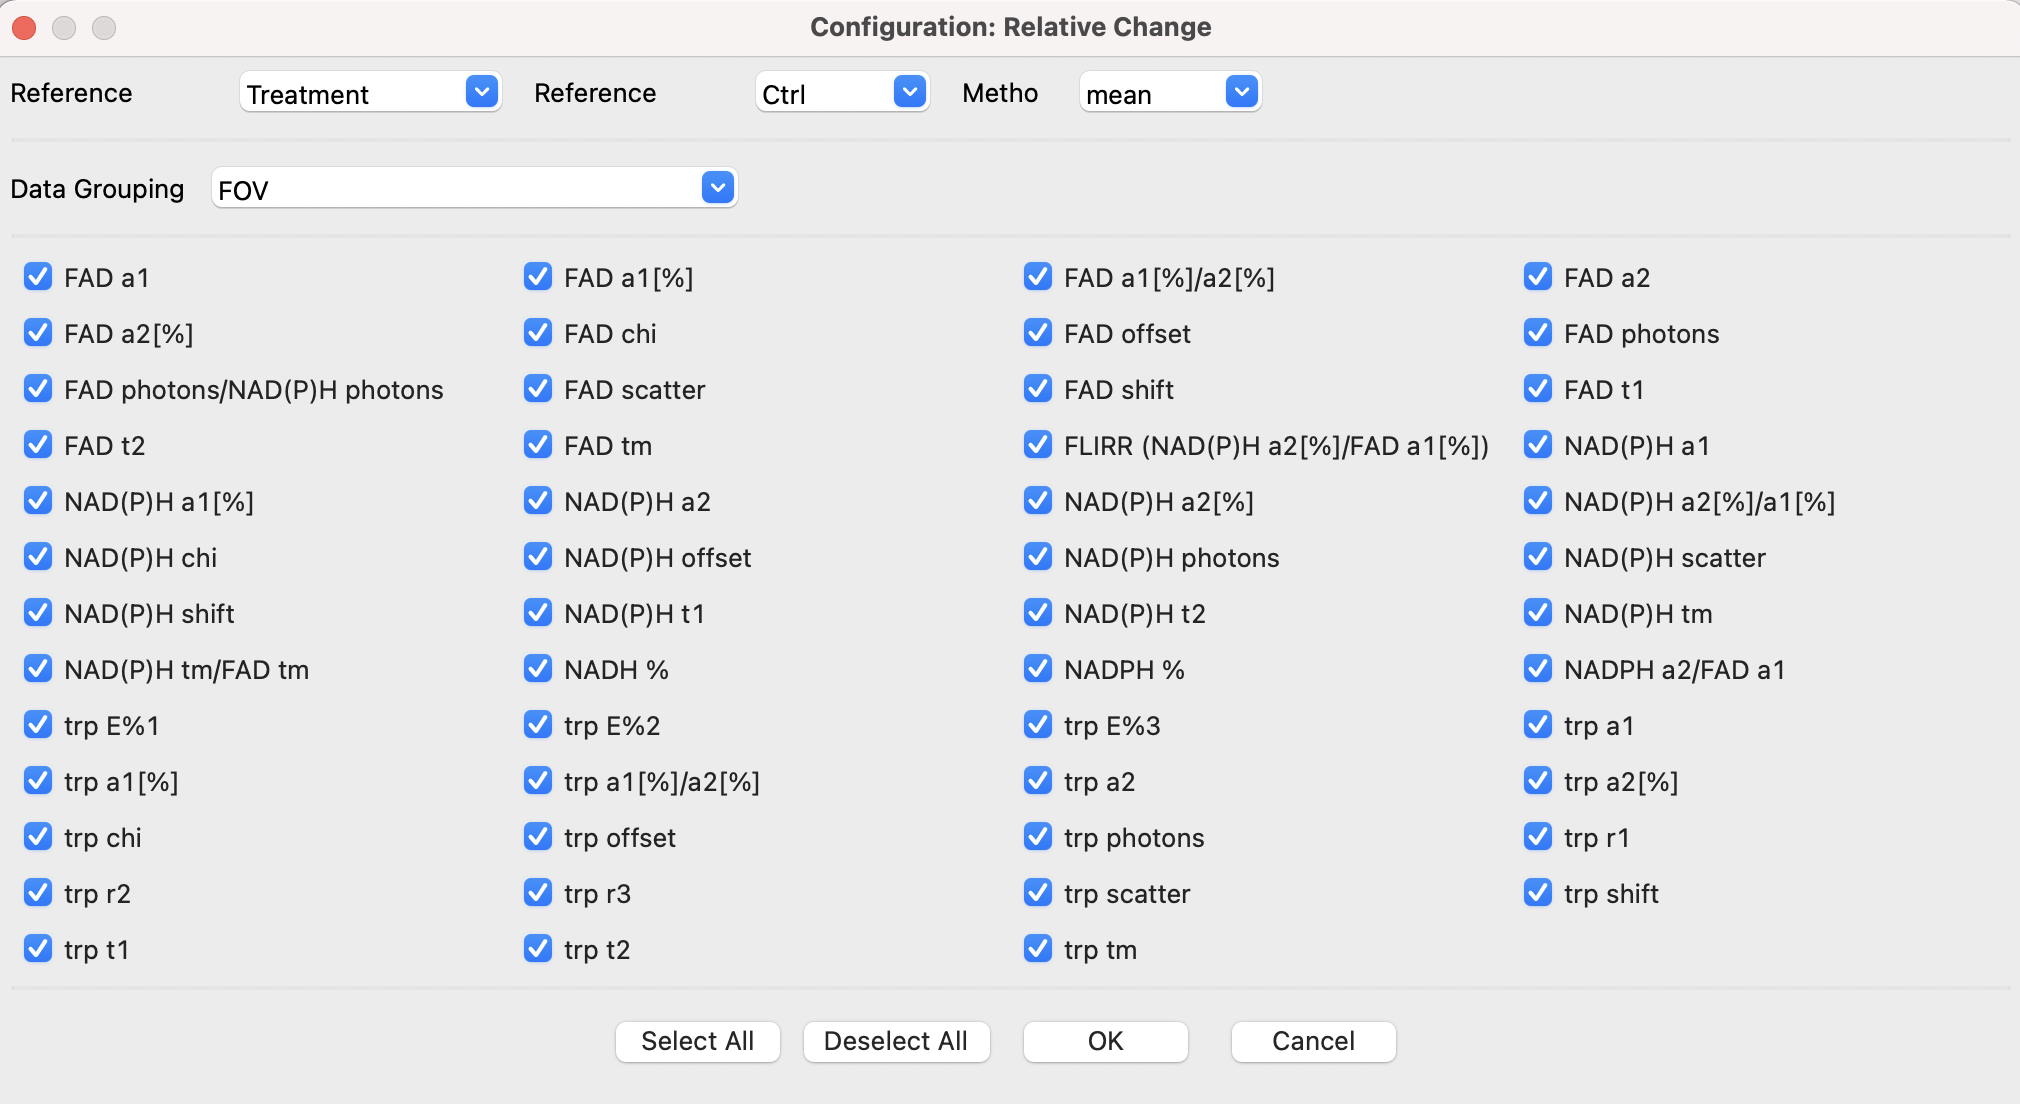
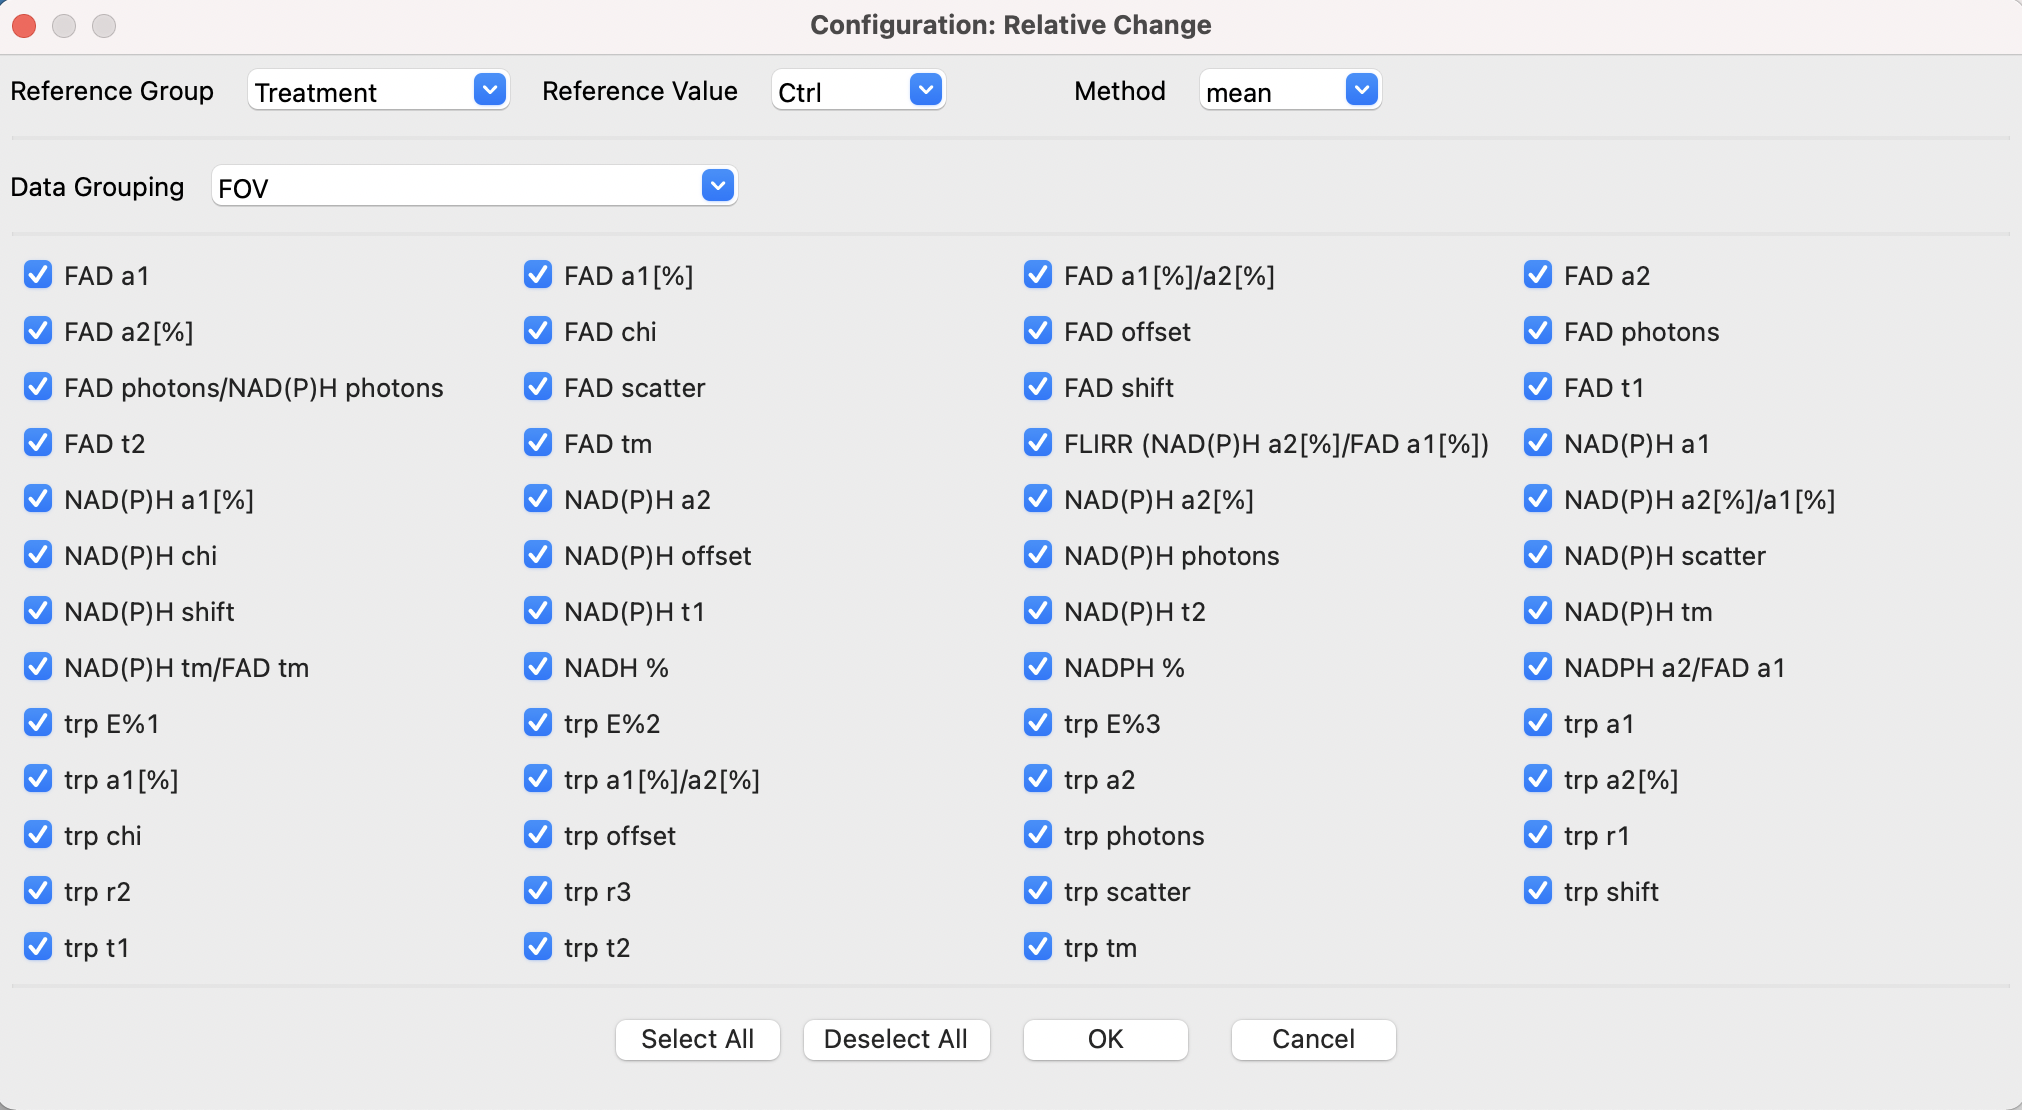
improved barplots, expanded docs

diff --git a/flim/analysis/barplots.py b/flim/analysis/barplots.py
@@ -15,6 +15,61 @@ from flim.gui.dialogs import BasicAnalysisConfigDlg
 import wx
 from importlib_resources import files
 import flim.resources
+import numpy as np
+
+class BarPlotConfigDlg(BasicAnalysisConfigDlg):
+
+    def __init__(self, parent, title, data, selectedgrouping=['None'], selectedfeatures='All', orientation='vertical', ordering=[], ebar='+/-', etype='std'):
+        self.orientation = orientation
+        self.ordering = ordering
+        self.ebar = ebar
+        self.etype = etype
+        BasicAnalysisConfigDlg.__init__(self, parent, title, data, selectedgrouping=selectedgrouping, selectedfeatures=selectedfeatures, optgridrows=1, optgridcols=0)
+		    
+    def get_option_panels(self):
+        osizer = wx.BoxSizer(wx.HORIZONTAL)
+        orientation_opts = ['vertical', 'horizontal']
+        sel_orientation = self.orientation
+        if sel_orientation not in orientation_opts:
+            sel_orientation = orientation_opts[0]
+        self.orientation_combobox = wx.ComboBox(self, wx.ID_ANY, style=wx.CB_READONLY, value=sel_orientation, choices=orientation_opts)
+        osizer.Add(wx.StaticText(self, label="Orientation "), 0, wx.ALL|wx.ALIGN_CENTER_VERTICAL, 5)
+        osizer.Add(self.orientation_combobox, 0, wx.ALL|wx.EXPAND|wx.ALIGN_CENTER_VERTICAL, 5)
+
+        bsizer = wx.BoxSizer(wx.HORIZONTAL)
+        ebar_opts = ['+/-', '+', 'None']
+        sel_ebar = self.ebar
+        if sel_ebar not in ebar_opts:
+            sel_ebar = ebar_opts[0]
+        self.ebar_combobox = wx.ComboBox(self, wx.ID_ANY, style=wx.CB_READONLY, value=sel_ebar, choices=ebar_opts)
+        self.ebar_combobox.Bind(wx.EVT_COMBOBOX, self.OnErroBarChange)
+        bsizer.Add(wx.StaticText(self, label="Error Bar"), 0, wx.ALL|wx.ALIGN_CENTER_VERTICAL, 5)
+        bsizer.Add(self.ebar_combobox, 0, wx.ALL|wx.EXPAND|wx.ALIGN_CENTER_VERTICAL, 5)
+
+        tsizer = wx.BoxSizer(wx.HORIZONTAL)
+        etype_opts = ['std', 's.e.m.']
+        sel_etype = self.etype
+        if sel_etype not in sel_etype:
+            sel_etype = sel_etype[0]
+        self.etype_combobox = wx.ComboBox(self, wx.ID_ANY, style=wx.CB_READONLY, value=sel_etype, choices=etype_opts)
+        self.etype_combobox.Enable(sel_ebar != 'None')
+        tsizer.Add(wx.StaticText(self, label="Error Type"), 0, wx.ALL|wx.ALIGN_CENTER_VERTICAL, 5)
+        tsizer.Add(self.etype_combobox, 0, wx.ALL|wx.EXPAND|wx.ALIGN_CENTER_VERTICAL, 5)
+        
+        return [osizer, bsizer, tsizer]
+        
+    def _get_selected(self):
+        params = super()._get_selected()
+        params['ordering'] = []
+        params['orientation'] = self.orientation_combobox.GetValue()
+        params['error bar'] = self.ebar_combobox.GetValue()
+        params['error type'] = self.etype_combobox.GetValue()
+        return params
+        
+    def OnErroBarChange(self, event):
+        ebar = self.ebar_combobox.GetValue()
+        self.etype_combobox.Enable(ebar != 'None')
+
 
 class BarPlot(AbstractAnalyzer):
     
@@ -52,7 +107,17 @@ class BarPlot(AbstractAnalyzer):
     def run_configuration_dialog(self, parent):
         selgrouping = self.params['grouping']
         selfeatures = self.params['features']
-        dlg = BasicAnalysisConfigDlg(parent, f'Configuration: {self.name}', self.data, selectedgrouping=selgrouping, selectedfeatures=selfeatures)
+        ordering = self.params['ordering']
+        orientation = self.params['orientation']
+        etype = self.params['error type']
+        ebar = self.params['error bar']
+        dlg = BarPlotConfigDlg(parent, f'Configuration: {self.name}', self.data, 
+        	selectedgrouping=selgrouping, 
+        	selectedfeatures=selfeatures, 
+        	ordering=ordering, 
+        	orientation=orientation,
+        	ebar=ebar,
+        	etype=etype)
         if dlg.ShowModal() == wx.ID_OK:
             results = dlg.get_selected()
             self.params.update(results)
@@ -72,18 +137,26 @@ class BarPlot(AbstractAnalyzer):
         #plt.rcParams.update({'figure.autolayout': True})
         if data is None or not feature in data.columns.values:
             return None, None
-        
         fig, ax = plt.subplots(constrained_layout=True)
+        capsize = 6
         if categories is None:
             categories = []
         if len(categories)==0:
             mean = pd.DataFrame(data={'all':[data[feature].mean()]}, index=[feature])#.to_frame()
-            std = pd.DataFrame(data={'all':[data[feature].std()]}, index=[feature])#.to_frame()
+            if self.params['error bar'] != 'None':
+                if self.params['error type'] == 'std':
+                    error = pd.DataFrame(data={'all':[data[feature].std()]}, index=[feature])#.to_frame()
+                else:
+                    error = pd.DataFrame(data={'all':[data[feature].sem()]}, index=[feature])#.to_frame()            
+            else:
+                error = None
+            if self.params['error bar'] == '+':
+                error = [[[0.0] * len(error), error.to_numpy().flatten()]]
             ticklabels = ''#mean.index.values
             if self.params['orientation'] == 'horizontal':
-                mean.plot.barh(ax=ax, xerr=std, capsize=6)#,figsize=fsize,width=0.8)
+                mean.plot.barh(ax=ax, xerr=error, capsize=capsize)#,figsize=fsize,width=0.8)
             else:
-                mean.plot.bar(ax=ax, yerr=std, capsize=6)#,figsize=fsize,width=0.8)            
+                mean.plot.bar(ax=ax, yerr=error, capsize=capsize)#,figsize=fsize,width=0.8)            
         else:    
             cols = [c for c in categories]
             cols.append(feature)
@@ -95,35 +168,49 @@ class BarPlot(AbstractAnalyzer):
     #        print data.reset_index().set_index(groups).index.unique()
             #df.columns = [' '.join(col).strip() for col in df.columns.values]
             mean = groupeddata.mean()
-            if self.params['error type'] == 'std':
-                error = groupeddata.std()
+            if self.params['error bar'] != 'None':
+                if self.params['error type'] == 'std':
+                    error = groupeddata.std()
+                else:
+                    error = groupeddata.sem()
             else:
-                error = groupeddata.sem()
+                error = None
             no_bars = len(mean)
             if pivot_level < len(categories):
                 unstack_level = list(range(pivot_level))
                 logging.debug (f"PIVOTING: {pivot_level}, {unstack_level}")
                 mean = mean.unstack(unstack_level)
-                error = error.unstack(unstack_level)
                 mean = mean.dropna(how='all', axis=0)
-                error = error.dropna(how='all', axis=0)
+                if error is not None:
+                    error = error.unstack(unstack_level)
+                    error = error.dropna(how='all', axis=0)
+            if self.params['error bar'] == '+':
+                error = error.transpose()
+                dim = error.shape
+                print (error)
+                zeros = np.zeros_like(error)
+                print (error.shape, zeros.shape)
+                C = np.empty((error.shape[0]+zeros.shape[0], error.shape[1]))
+                C[::2,:] = zeros
+                C[1::2,:] = error
+                error = C
+                error = error.reshape([dim[0],2,dim[1]])              
+                print (error)
+                print (error.shape)
             ticklabels = mean.index.values
             bwidth = 0.8# * len(ticklabels)/no_bars 
             fig.set_figheight(1 + no_bars//8)
             fig.set_figwidth(6)
             if self.params['orientation'] == 'horizontal':
-                mean.plot.barh(ax=ax, xerr=error, width=bwidth, capsize=0.75*bwidth)           
+                mean.plot.barh(ax=ax, xerr=error, width=bwidth, capsize=capsize)           
             else:
-                mean.plot.bar(ax=ax, yerr=error, width=bwidth, capsize=6)           
-        
+                mean.plot.bar(ax=ax, yerr=error, width=bwidth, capsize=capsize)           
         
         if len(categories) > 1:
-            # ticklabels is an array of tuples --> convert individual tuples into string 
-    #        ticklabels = [', '.join(l) for l in ticklabels]
             ticklabels = [str(l).replace('\'','').replace('(','').replace(')','') for l in ticklabels]
             h, labels = ax.get_legend_handles_labels()
-            #labels = [l.encode('ascii','ignore').split(',')[1].strip(' \)') for l in labels]
             labels = [l.replace('\'','').replace('(','').replace(')','') for l in labels]
+            labels = [', '.join(label.split(',')[1:]) for label in labels]
 
             if self.params['orientation'] == 'horizontal':
                 ax.set_ylabel(', '.join(categories[pivot_level:]))

diff --git a/flim/analysis/relativechange.py b/flim/analysis/relativechange.py
@@ -33,29 +33,30 @@ class RelativeChangeConfigDlg(BasicAnalysisConfigDlg):
         self.sel_refvalue = refvalue
         if self.sel_refvalue not in self.refval_options:
             self.sel_refvalue = self.refval_options[0]
-        BasicAnalysisConfigDlg.__init__(self, parent, title, data, selectedgrouping=selectedgrouping, selectedfeatures=selectedfeatures, optgridrows=1, optgridcols=1)
+        BasicAnalysisConfigDlg.__init__(self, parent, title, data, selectedgrouping=selectedgrouping, selectedfeatures=selectedfeatures, optgridrows=1, optgridcols=0)
 		    
     def get_option_panels(self):
         self.aggboxes = {}
-        sizer = wx.BoxSizer(wx.HORIZONTAL)
-
         self.refgrp_combobox = wx.ComboBox(self, wx.ID_ANY, style=wx.CB_READONLY, value=self.sel_refgroup, choices=self.categories)
         self.refgrp_combobox.Bind(wx.EVT_COMBOBOX, self.OnRefGroupChanged)
-        sizer.Add(wx.StaticText(self, label="Reference Group"), 0, wx.ALL|wx.ALIGN_CENTER_VERTICAL, 5)
-        sizer.Add(self.refgrp_combobox, 0, wx.ALL|wx.EXPAND|wx.ALIGN_CENTER_VERTICAL, 5)
+        rgsizer = wx.BoxSizer(wx.HORIZONTAL)
+        rgsizer.Add(wx.StaticText(self, label="Reference Group "), 0, wx.ALL|wx.ALIGN_CENTER_VERTICAL, 5)
+        rgsizer.Add(self.refgrp_combobox, 0, wx.ALL|wx.EXPAND|wx.ALIGN_CENTER_VERTICAL, 5)
         
         dummy = [a for c in self.categories for a in self.data[c].unique()]
         self.refval_combobox = wx.ComboBox(self, wx.ID_ANY, style=wx.CB_READONLY, value=self.sel_refvalue, choices=dummy)
         self.refval_combobox.SetItems(self.refval_options)
         self.refval_combobox.SetValue(self.sel_refvalue)
-        sizer.Add(wx.StaticText(self, label="Reference Value"), 0, wx.ALL|wx.ALIGN_CENTER_VERTICAL, 5)
-        sizer.Add(self.refval_combobox, 0, wx.ALL|wx.EXPAND|wx.ALIGN_CENTER_VERTICAL, 5)
+        rvsizer = wx.BoxSizer(wx.HORIZONTAL)
+        rvsizer.Add(wx.StaticText(self, label="Reference Value "), 0, wx.ALL|wx.ALIGN_CENTER_VERTICAL, 5)
+        rvsizer.Add(self.refval_combobox, 0, wx.ALL|wx.EXPAND|wx.ALIGN_CENTER_VERTICAL, 5)
 
         self.method_combobox = wx.ComboBox(self, wx.ID_ANY, style=wx.CB_READONLY, value=self.sel_method, choices=self.method_options)
-        sizer.Add(wx.StaticText(self, label="Method"), 0, wx.ALL|wx.ALIGN_CENTER_VERTICAL, 5)
-        sizer.Add(self.method_combobox, 0, wx.ALL|wx.EXPAND|wx.ALIGN_CENTER_VERTICAL, 5)
+        msizer = wx.BoxSizer(wx.HORIZONTAL)
+        msizer.Add(wx.StaticText(self, label="Method "), 0, wx.ALL|wx.ALIGN_CENTER_VERTICAL, 5)
+        msizer.Add(self.method_combobox, 0, wx.ALL|wx.EXPAND|wx.ALIGN_CENTER_VERTICAL, 5)
         
-        return [sizer]
+        return [rgsizer, rvsizer, msizer]
         
     def _get_selected(self):
         params = super()._get_selected()

diff --git a/docs/userguide/analysis/barplot.md b/docs/userguide/analysis/barplot.md
@@ -1,4 +1,4 @@
-# Barplot
+# Bar Plot
 
 The `Bar Plot` tool creates bar plots based on mean +/- StDev (or S.E.M) of grouped data.
 
@@ -7,3 +7,42 @@ The `Bar Plot` tool creates bar plots based on mean +/- StDev (or S.E.M) of grou
 **Toolbar Icon:** ![](/images/analysis/barplot.png)
 
 ## Running the Analysis
+
+1. Go to the `Window` menu and select one of the data tables. This will bring the selectd table window to the front.
+    ![](/images/data/dataframe.png)
+
+2. Start the Bar Plot tool by clicking on the icon in the toolbar or via the `Analysis` > `Bar Plot` menu.
+
+3. In the `Configuration: Bar Plot` dialog, define the orientation of the bars, error bar, and error type.
+    - `Orientation`: Specifies the orientation of the bars, either `horizontal` or `vertical`.
+    - `Error bar`: Specifies whether an error bar is shown and whether the error bar is plotted unidirectionally (`+`) or symmetrically (`+/-`).
+    - `Error type`: Either standard deviation (`std`) or standard error of the mean (`s.e.m`).
+    
+    ![](/images/analysis/barplot-config-grouping.png)
+
+4. Select the data grouping and data features of interest. Data grouping options are based on the tables category columns,  i.e. `Cell`, `Compartment`, `FOV`, and `Treatment` in this example. Data features correspond to columns with numeric data, `FAD a1`, etc..
+
+    In the example, input data is grouped by `Treatment` and `FOV`.  
+
+4. Click `OK`.
+
+5. The data for each analysis feature is plotted in its own plot window.
+
+```{note}
+The plot layout and grouping of bars can be changed by altering the order of the data grouping elements. See examples below.
+```
+
+## Example Output
+
+**Example Results:** `Data Grouping` - Treatment, FOV
+
+![](/images/analysis/barplot-result1-grouping.png)
+
+
+**Example Results:** `Data Grouping` - FOV, Treatment
+
+![](/images/analysis/barplot-result2-grouping.png)
+
+```{note}
+Plots can be manipulated and saved as described in the [Plots](/userguide/plots/index) section.
+```

diff --git a/docs/userguide/analysis/boxplot.md b/docs/userguide/analysis/boxplot.md
@@ -1,4 +1,4 @@
-# Boxplot
+# Box Plot
 
 The `Box Plot` tool creates box plots based on mean +/- StDev (or S.E.M) of grouped data.
 
@@ -7,3 +7,37 @@ The `Box Plot` tool creates box plots based on mean +/- StDev (or S.E.M) of grou
 **Toolbar Icon:** ![](/images/analysis/boxplot.png)
 
 ## Running the Analysis
+
+1. Go to the `Window` menu and select one of the data tables. This will bring the selectd table window to the front.
+    ![](/images/data/dataframe.png)
+
+2. Start the Bar Plot tool by clicking on the icon in the toolbar or via the `Analysis` > `Box Plot` menu.
+
+3. In the `Configuration: Box Plot` dialog, select the data grouping and data features of interest. Data grouping options are based on the tables category columns,  i.e. `Cell`, `Compartment`, `FOV`, and `Treatment` in this example. Data features correspond to columns with numeric data, `FAD a1`, etc..
+
+    In the example, input data is grouped by `Treatment` and `FOV`.  
+
+    ![](/images/analysis/boxplot-config-grouping.png)
+
+4. Click `OK`.
+
+5. The data for each analysis feature is plotted in its own plot window.
+
+```{note}
+The plot layout and grouping of bars can be changed by altering the order of the data grouping elements. See examples below.
+```
+
+## Example Output
+
+**Example Results:** `Data Grouping` - Treatment, FOV
+
+![](/images/analysis/boxplot-result1-grouping.png)
+
+
+**Example Results:** `Data Grouping` - FOV, Treatment
+
+![](/images/analysis/boxplot-result2-grouping.png)
+
+```{note}
+Plots can be manipulated and saved as described in the [Plots](/userguide/plots/index) section.
+```

diff --git a/docs/userguide/analysis/relchange.md b/docs/userguide/analysis/relchange.md
@@ -4,7 +4,7 @@ The `Relative Change` analysis tool converts input data to fold-change values re
 
 ## Running the Analysis
 
-1. Go to the `Window` menu and select one of the data tables. This will bring the selectd table window to the front.
+1. Go to the `Window` menu and select one of the data tables. This will bring the selected table window to the front.
     ![](/images/data/dataframe.png)
 
 2. Start the Relative Change tool by clicking on the icon in the toolbar or via the `Analysis` > `Relative Change` menu.
@@ -16,7 +16,7 @@ The `Relative Change` analysis tool converts input data to fold-change values re
     
     ![](/images/analysis/relchange-config-grouping.png)
 
-4. Select the analysis features, data grouping and data features of interest. Data grouping options are based on the tables category columns,  i.e. `Cell`, `Compartment`, `FOV`, and `Treatment` in this example. Data features correspond to columns with numeric data, `FAD a1`, etc..
+4. Select the data grouping and data features of interest. Data grouping options are based on the tables category columns,  i.e. `Cell`, `Compartment`, `FOV`, and `Treatment` in this example. Data features correspond to columns with numeric data, `FAD a1`, etc..
 
     In the example, input data is grouped by `Treatment` (implicit as specified **Reference Group**) and `FOV`.  For each data group and data feature, the **mean** value of the `Treatment:Ctrl` group is calculated, aka the mean reference values. Each row value is then expressed as fold-change relative to its group's and data features' mean reference values.
 

diff --git a/docs/userguide/index.rst b/docs/userguide/index.rst
@@ -10,6 +10,7 @@ User Guide
 
     appmenu
     data/index 
-    analysis/index        
+    analysis/index  
+    plots/index      
     settings
 

diff --git a/docs/userguide/plots/index.rst b/docs/userguide/plots/index.rst
@@ -1,0 +1,11 @@
+Plots
+===========
+
+.. toctree::
+    :maxdepth: 2
+    :hidden:
+    :glob:
+    
+
+    resize
+    save

diff --git a/docs/userguide/plots/resize.md b/docs/userguide/plots/resize.md
@@ -1,0 +1,1 @@
+# Resizing Plots

diff --git a/docs/userguide/plots/save.md b/docs/userguide/plots/save.md
@@ -1,0 +1,1 @@
+# Saving Plots
